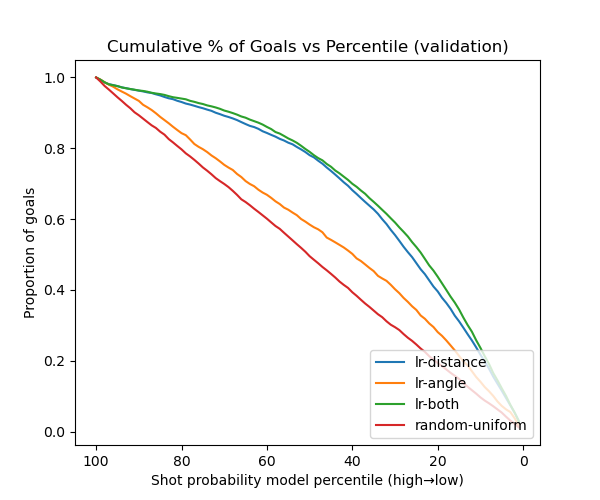
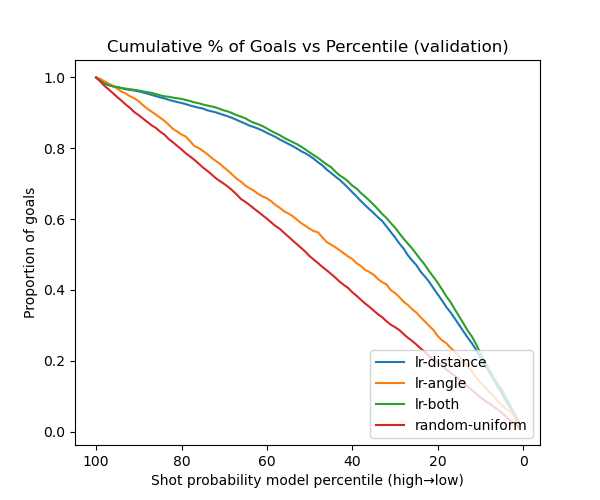
Q2: update figures and blog text

diff --git a/_posts/2025-11-08-milestone-2.md b/_posts/2025-11-08-milestone-2.md
@@ -30,87 +30,87 @@ All experiments and the most relevant models are logged on our [Weights & Biases
 - *Figure 1.1 - *
 
 ---
+
 # **Step 2: Baseline Models**
+
 we trained three baseline **logistic regressions** on **distance only**, **angle only**, and **distance+angle**, plus a **random-uniform** baseline. evaluation used **validation probabilities** only.
 
 **setup.** features: **distance_from_net**, **shot_angle**; target: **is_goal** (1 = goal). from `baseline_train.csv` we made a **stratified 80/20 split (seed 42)** and trained three default logistic regressions: (i) distance, (ii) angle, (iii) distance+angle. we also included a random-uniform baseline. missing values in the two features were imputed with the **median fitted on the training split**. the **test set was not used**.
 
-**Evaluation.** because we care about **probabilities** (expected goals), all curves use **validation-set predicted probabilities for class 1 (goal)**:
+**evaluation.** because we care about **probabilities** (expected goals), all curves use **validation-set predicted probabilities for class 1 (goal)**:
 
 1. **roc curve (+ auc)** with a **chance (45°)** line
 2. **goal rate vs model percentile**
 3. **cumulative % of goals vs percentile**
 4. **reliability (calibration) diagram**
 
-**Findings.**
+**Findings:**
 
-- **distance+angle** ranks shots best; **distance** is next; **angle** alone is only slightly above chance; **random-uniform** tracks the chance line.
-- high-probability percentiles have much higher **goal rates**, and **distance+angle** captures goals fastest in the cumulative plot.
-- calibration isn’t perfect (typical for simple baselines): most predictions sit in a low-probability band and deviate from the diagonal, but the ranking remains useful.
-
-## Question 2.1 : 
-we split the data into training and validation using a stratified split so the goal rate is preserved. we then trained a default **logistic regression** on a single feature, **distance_from_net**, and evaluated **accuracy** on the validation set. the accuracy looks deceptively decent, but inspection of the predictions shows most probabilities are very small; with a 0.5 threshold, the model predicts almost all shots as “no goal.” because goals are relatively rare, a model can achieve high accuracy without actually identifying goals. **takeaway:** accuracy is a poor metric here; we should evaluate the **predicted probabilities** directly rather than hard 0/1 decisions.
-
-## Question 2.2 :
-Motivated by q3.1, we use `predict_proba` and evaluate **validation probabilities** for the positive class (goal). we generated four diagnostics:
-
-- **roc curve + auc** (with a **chance (45°)** line): assesses ranking quality independent of a fixed threshold.
-- **goal rate vs model percentile:** shows how the empirical goal rate changes as we move from the highest to the lowest predicted percentiles.
-- **cumulative % of goals vs percentile:** shows how quickly each model captures the total pool of goals as we move down from the highest predicted shots.
-- **reliability (calibration) diagram:** compares predicted probabilities to observed frequencies.
-
-    these plots reveal that probability ranking is informative even when raw accuracy is misleading. (per the instructions, we defer showing the full, multi-model figures until the next subsection.)
-## Question 2.3 : 
-We repeated the same setup for **logistic regression on angle only**, and on **distance+angle**, and we added a **random-uniform** baseline (probabilities sampled from 0–1). we then produced the **same four figures** on the validation set, each containing **four curves** (distance, angle, distance+angle, random-uniform):
-
-- **roc/auc:** **distance+angle** ranks shots best; **distance** is next; **angle** alone is weak; **random-uniform** tracks chance.
-- **goal rate vs percentile:** the top predicted percentiles have the highest goal rates; curves order as distance+angle > distance > angle > random.
-- **cumulative % of goals vs percentile:** distance+angle accumulates goals fastest, confirming stronger ranking.
-- **reliability diagram:** probabilities are not perfectly calibrated (typical for simple baselines), but the ranking remains useful.
-    
-    **takeaway:** distance carries most of the signal; adding angle improves ranking further, while the random baseline provides the expected reference.
-    
-## Question 2.4
-
-Next to the figures, we include links to the **three experiment runs** (distance, angle, distance+angle). For each of these runs, we also **saved the trained model as a W&B artifact** and tagged it clearly so it can be referenced later.
+* **distance+angle** gives the best ranking (**AUC ≈ 0.707**), **distance** is close behind (**AUC ≈ 0.692**), **angle** is weak (**AUC ≈ 0.560**), and **random-uniform** sits at chance (**AUC ≈ 0.496**).
+* high-probability percentiles have much higher **goal rates**; **distance+angle** stays above the others across most of the curve, with **distance** next and **angle** trailing; **random** is nearly flat.
+* in the cumulative plot, **distance+angle** captures goals fastest, then **distance**, then **angle**; **random** increases almost linearly.
+* calibration isn’t perfect: most predictions lie in a low-probability band, and points deviate from the diagonal (some under/over-confidence), but the ranking remains useful.
 
 ---
 
+## **Question 2.1**
+
+we split the data into training and validation using a stratified split so the goal rate is preserved. we then trained a default **logistic regression** on a single feature, **distance_from_net**, and evaluated **accuracy** on the validation set. the accuracy looks deceptively decent, but inspection of the predictions shows most probabilities are very small; with a 0.5 threshold, the model predicts almost all shots as “no goal.” because goals are relatively rare, a model can achieve high accuracy without actually identifying goals. **takeaway:** accuracy is a poor metric here; we should evaluate the **predicted probabilities** directly rather than hard 0/1 decisions.
+
+## **Question 2.2**
+
+motivated by q2.1, we use `predict_proba` and evaluate **validation probabilities** for the positive class (goal). we generated four diagnostics: roc/auc, goal-rate vs percentile, cumulative % of goals vs percentile, and a reliability diagram. these show that probability ranking is informative even when raw accuracy is misleading.
+
+## **Question 2.3**
+
+we repeated the setup for **angle only** and **distance+angle**, and added a **random-uniform** baseline. we produced the **same four figures** on the validation set, each with **four curves**.
+
+* **roc/auc:** **distance+angle (≈ 0.707)** > **distance (≈ 0.692)** >> **angle (≈ 0.560)** > **random (≈ 0.496)**.
+* **goal rate vs percentile:** top percentiles show the highest goal rates; ordering is **distance+angle** > **distance** > **angle** > **random** (random is nearly flat).
+* **cumulative % of goals:** **distance+angle** accumulates goals fastest across percentiles, confirming stronger ranking than single-feature models.
+* **reliability:** models are not perfectly calibrated; most predictions live around low probabilities, with some bins showing under/over-confidence (especially at higher predicted values where sample sizes are smaller).
+
+**takeaway:** **distance** carries most of the signal; **adding angle** improves ranking further; **random** behaves as expected.
+
+---
+
+## **Question 2.4**
+
 {% include milestone2/q2_fig_roc_auc.html width="600" %}
 
-**Figure — ROC (+ AUC, ranking quality).** _lr-both_ ranks shots best (highest AUC), _lr-distance_ is next, and _lr-angle_ is only slightly above chance. The **random-uniform** curve hugs the **chance (45°)** line, as expected. **Takeaway:** distance carries most of the signal; adding angle improves ranking.
+**Figure — ROC (+ AUC, ranking quality).** *lr-both* (**AUC ≈ 0.707**) ranks shots best; *lr-distance* (**AUC ≈ 0.692**) is next; *lr-angle* (**AUC ≈ 0.560**) is only slightly above chance; **random-uniform** (**AUC ≈ 0.496**) tracks the **chance (45°)** line.
 
 ---
 
 {% include milestone2/q2_fig_goalrate_vs_percentile.html width="600" %}
 
-**Figure — Goal rate vs model percentile.** Goal rate is highest at the **top percentiles** and drops as we move lower. Curves order: **lr-both** > **lr-distance** > **lr-angle**; **random-uniform** is relatively flat. **Takeaway:** models meaningfully separate dangerous from low-quality shots.
+**Figure — Goal rate vs model percentile.** Goal rate peaks at the **top percentiles** and declines steadily. Ordering across most of the curve is **lr-both** > **lr-distance** > **lr-angle**; **random-uniform** is relatively flat.
 
 ---
 
 {% include milestone2/q2_fig_cum_goals_vs_percentile.html width="600" %}
 
-**Figure — Cumulative % of goals vs percentile.** **lr-both** rises fastest (captures goals earliest), **lr-distance** follows, **lr-angle** lags, and **random-uniform** increases nearly linearly. **Takeaway:** focusing on the top-probability shots covers a large fraction of goals.
+**Figure — Cumulative % of goals vs percentile.** **lr-both** rises fastest (captures goals earliest), **lr-distance** follows closely, **lr-angle** lags, and **random-uniform** increases near linearly.
 
 ---
 
 {% include milestone2/q2_fig_reliability_diagram.html width="600" %}
 
-**Figure — Reliability (calibration) diagram.** Most predictions lie in a **low-probability band**. Deviations from the diagonal indicate **imperfect calibration** (some under/over-confidence), which is typical for simple baselines. Ranking is still useful, as shown by the earlier plots.
+**Figure — Reliability (calibration) diagram.** Most predictions sit in a **low-probability band**; deviations from the diagonal indicate **imperfect calibration** (some under/over-confidence), which is typical for simple baselines. Despite this, ranking remains useful, as confirmed by the ROC and percentile plots.
 
----
+--
 
 - **Artifacts & runs.** The three models are saved as W&B **artifacts**, and each experiment run is linked below:
 
 ### Baseline Runs
-- [lr-distance (run)](https://wandb.ai/IFT6758_team4/milestone_2/runs/kikm28qp?nw=nwuseraftabgazali003)
-- [lr-angle (run)](https://wandb.ai/IFT6758_team4/milestone_2/runs/lcfix0ii?nw=nwuseraftabgazali003)
-- [lr-both (run)](https://wandb.ai/IFT6758_team4/milestone_2/runs/88d0ye0e?nw=nwuseraftabgazali003)
+- [lr-distance (run)](https://wandb.ai/IFT6758_team4/milestone_2/runs/26ipd8pc?nw=nwuseraftabgazali003)
+- [lr-angle (run)](https://wandb.ai/IFT6758_team4/milestone_2/runs/4qcqb2hw?nw=nwuseraftabgazali003)
+- [lr-both (run)](https://wandb.ai/IFT6758_team4/milestone_2/runs/3g7slfrs?nw=nwuseraftabgazali003)
 
 ### Saved Baseline Models (Artifacts)
-- [lr-distance:v0](https://wandb.ai/IFT6758_team4/milestone_2/artifacts/model/lr-distance/v0)
-- [lr-angle:v0](https://wandb.ai/IFT6758_team4/milestone_2/artifacts/model/lr-angle/v0)
-- [lr-both:v0](https://wandb.ai/IFT6758_team4/milestone_2/artifacts/model/lr-both/v0)
+- [lr-distance:v1](https://wandb.ai/IFT6758_team4/milestone_2/artifacts/model/lr-distance/v1)
+- [lr-angle:v1](https://wandb.ai/IFT6758_team4/milestone_2/artifacts/model/lr-angle/v1)
+- [lr-both:v1](https://wandb.ai/IFT6758_team4/milestone_2/artifacts/model/lr-both/v1)
 
 **Note.** The **test set remains untouched** in this section; everything above uses the training/validation split only.
 
@@ -301,7 +301,59 @@ Model-3’s overall performance is comparable to both Model-2A and Model-2B. Des
 # **Step 6: Evaluate on test set!**
 
 ## Question 6.1:
+<<<<<<< Updated upstream
 ## Question 6.2:
+=======
+
+## Methods & Ablations
+
+| Approach                        | Key settings                                  |   Val ROC-AUC |    Val PR-AUC | Outcome / Notes                                                                              |
+| ------------------------------- | --------------------------------------------- | ------------: | ------------: | -------------------------------------------------------------------------------------------- |
+| **CatBoost (calibrated)**       | depth=8, lr=0.05, l2=3, 800; **OOF Platt**    |    **0.8579** |    **0.5251** | **Final model**; AUC unchanged vs raw, **better reliability** (Brier≈0.0629, LogLoss≈0.2222) |
+| CatBoost (raw)                  | same, no calibration                          |        0.8579 |        0.5251 | Matches calibrated AUC; kept to show calibration helps probability quality                   |
+| **HistGradientBoosting (+OHE)** | max_leaf_nodes=63, lr=0.08, min_leaf=50       |        0.8561 |        0.5254 | Strong comparator, essentially tied on PR-AUC                                                |
+| **RF n-seed ensemble (5)**      | 300 trees, balanced; seeds 42/101/202/303/404 |        0.8428 |        0.5042 | Slower, clearly below CatBoost/HGB                                                           |
+| Ridge / Logistic                | regularized linear                            | ~0.71 (prior) | ~0.20 (prior) | Not re-run post-fix; underfits on this task                                                  |
+| Blends / Stacking               | Cat+HGB(+RF); meta-LR                         |    ~0.85 |    ≈ CatBoost | No material gain; omitted from final curves                                                  |
+| Mixture-of-Experts              | rebound / distance×rush splits                |    ~0.83 |    < CatBoost | Data fragmentation + overlap → worse                                                         |
+
+**Interpretation.** After the dataset fix, separability jumps to **AUC ≈ 0.86 / PR-AUC ≈ 0.525** for the top two models (CatBoost, HGB). **Calibration** leaves AUC unchanged—as expected—but improves probability quality (lower Brier/LogLoss), which matters for xG usage. Random Forest still lags, and added complexity (stacking/blends/MoE) doesn’t beat a single, calibrated CatBoost, so we ship the **calibrated CatBoost** as the final model.
+
+
+## Required figures
+
+{% include milestone2/q6_fig_roc.html width="600" %}
+
+* **roc:** both models are strong and nearly overlapping; **catboost (calibrated)** is a hair above **hgb** across most fpr, matching the legend (~0.858 vs ~0.856). The very steep rise near the origin shows lots of easy positives; random is the 45° line.
+
+{% include milestone2/q6_fig_goalrate.html width="600" %}
+
+* **goal-rate vs percentile:** a clean monotonic drop. The top few percentiles have **very high goal rates** (spike at the far right), then decay smoothly. Catboost tracks or slightly beats hgb over most high-percentile bins; random is flat ~constant.
+
+{% include milestone2/q6_fig_cum_goals.html width="600" %}
+
+* **cumulative goals:** the highest-scored shots account for a **large majority of goals**; catboost and hgb curves almost overlap with catboost just ahead most of the way. Random is much closer to a straight line.
+
+{% include milestone2/q6_fig_calibration.html width="600" %}
+
+* **reliability:** both models are **reasonably calibrated** in the mid-range. Catboost is a bit **under-confident** at low–mid probabilities and then catches up; hgb hugs the diagonal longer but becomes **over-confident** in the highest bin (points above the line). Either way, calibrated catboost gives the tidiest probs overall.
+
+---
+
+## Question 6.2:
+### W&B experiment links
+
+- **Final model (CatBoost, calibrated) — run:** *[q6_catboost_final_calibrated](https://wandb.ai/IFT6758_team4/milestone_2/runs/kggfjh41?nw=nwuseraftabgazali003)*
+- **Final model — artifact:** *[q6_catboost_final_calibrated:v2](https://wandb.ai/IFT6758_team4/milestone_2/artifacts/model/q6_catboost_final_calibrated/v2)*
+- **HGB comparator — run:** *[q6_final_hgb_locked17](https://wandb.ai/IFT6758_team4/milestone_2/runs/rtzdqzn9?nw=nwuseraftabgazali003)*
+- **CatBoost (raw) — run:** *[q6_catboost_raw_locked17](https://wandb.ai/IFT6758_team4/milestone_2/runs/jbxjv0j7?nw=nwuseraftabgazali003)*
+- **nseed Random Forest - run:** *[q6_nseed_RF_locked17](https://wandb.ai/IFT6758_team4/milestone_2/runs/jamz7upp?nw=nwuseraftabgazali003)*
+
+# **Q7 — Evaluate on test set!**
+
+## Question 7.1:
+## Question 7.2:
+>>>>>>> Stashed changes
 
 
 - *Figure 6.1 -*
